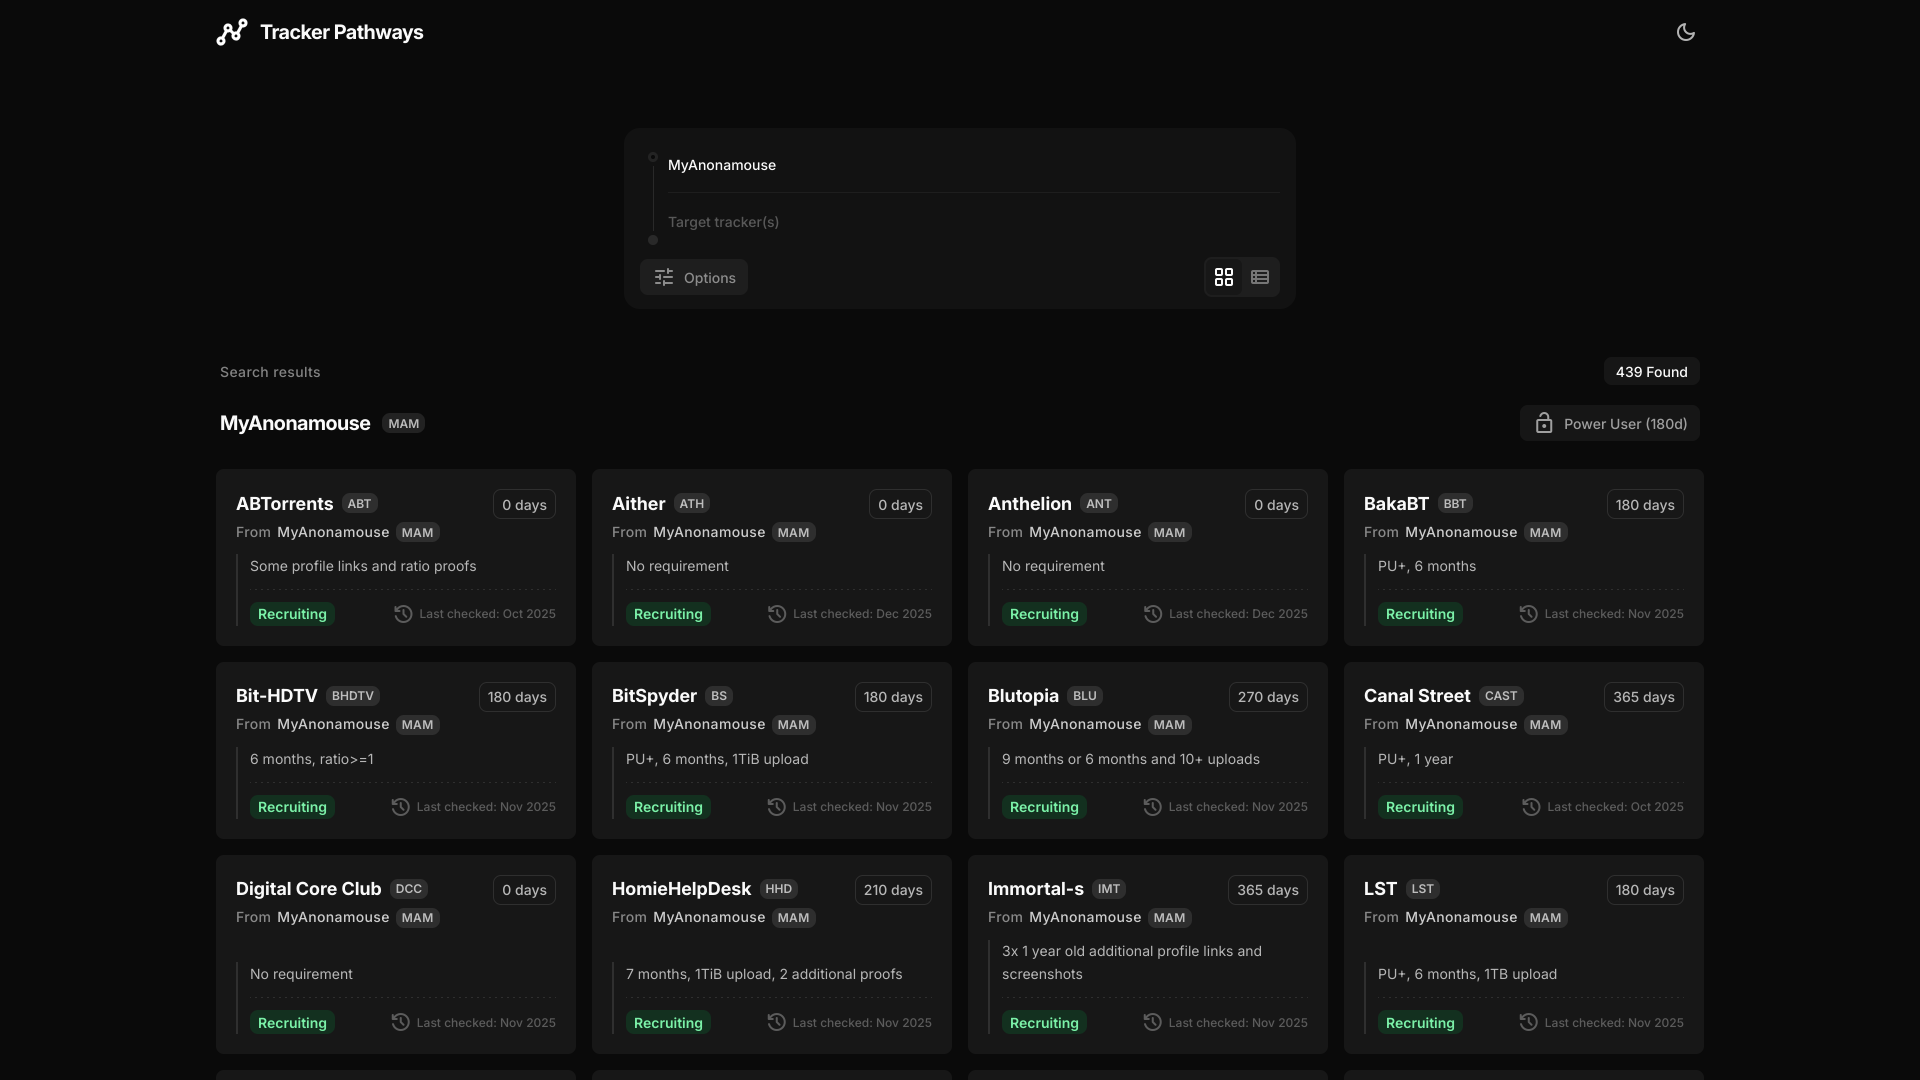
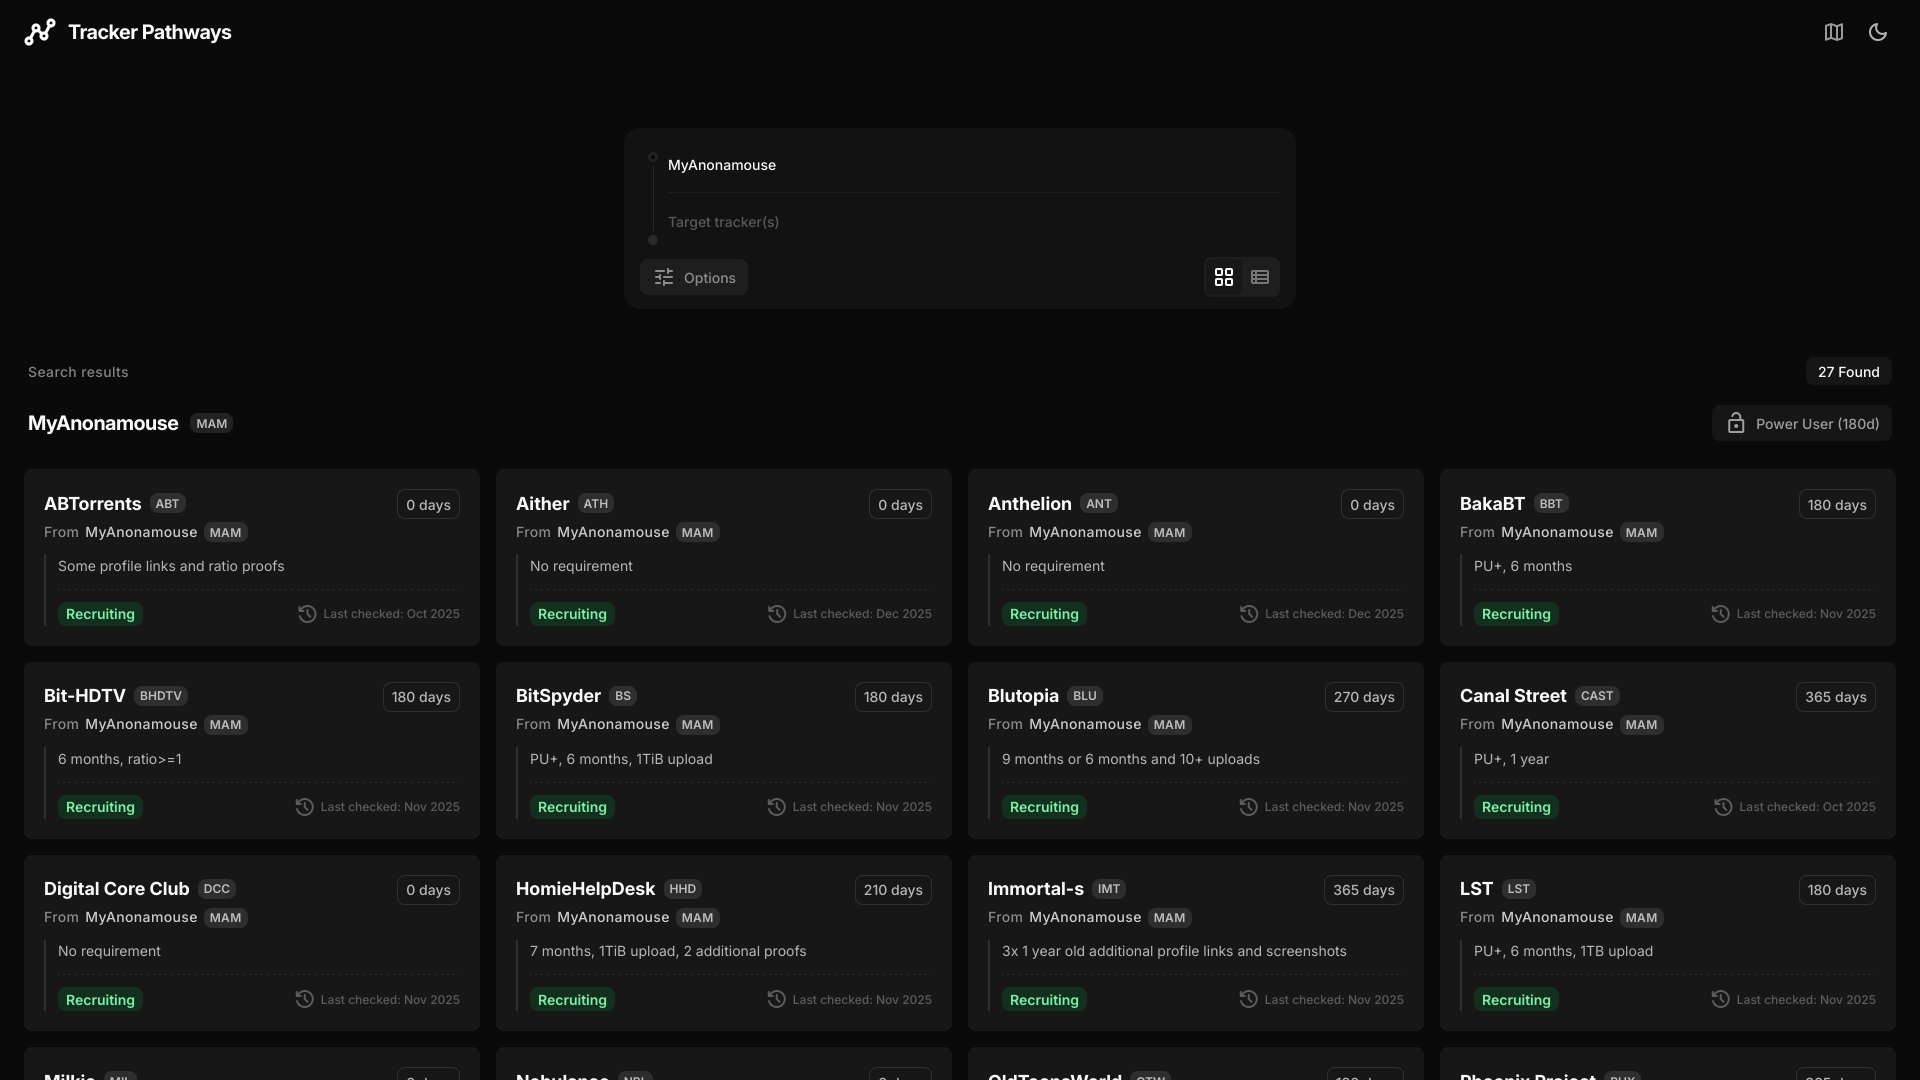
docs: update readme description and refresh screenshots

diff --git a/README.md b/README.md
@@ -7,9 +7,11 @@ Discover the private tracker network.
 
 <div align="center">
   <img src="./public/dashboard.png" alt="Tracker Pathways Dashboard" width="100%" />
+  <br /><br />
+  <img src="./public/graph.png" alt="Tracker Pathways Graph" width="100%" />
 </div>
 
-Tracker Pathways is a tool designed to visualize invite routes and requirements within the private tracker community. Search for specific paths between trackers, view detailed requirement data, and filter results based on account age or user class.
+Tracker Pathways is an open source tool designed to map the private tracker network, enabling exploration of invite routes with detailed requirements or visualization of connections using an interactive force directed graph to find the optimal path between communities.
 
 ## Contributing
 
